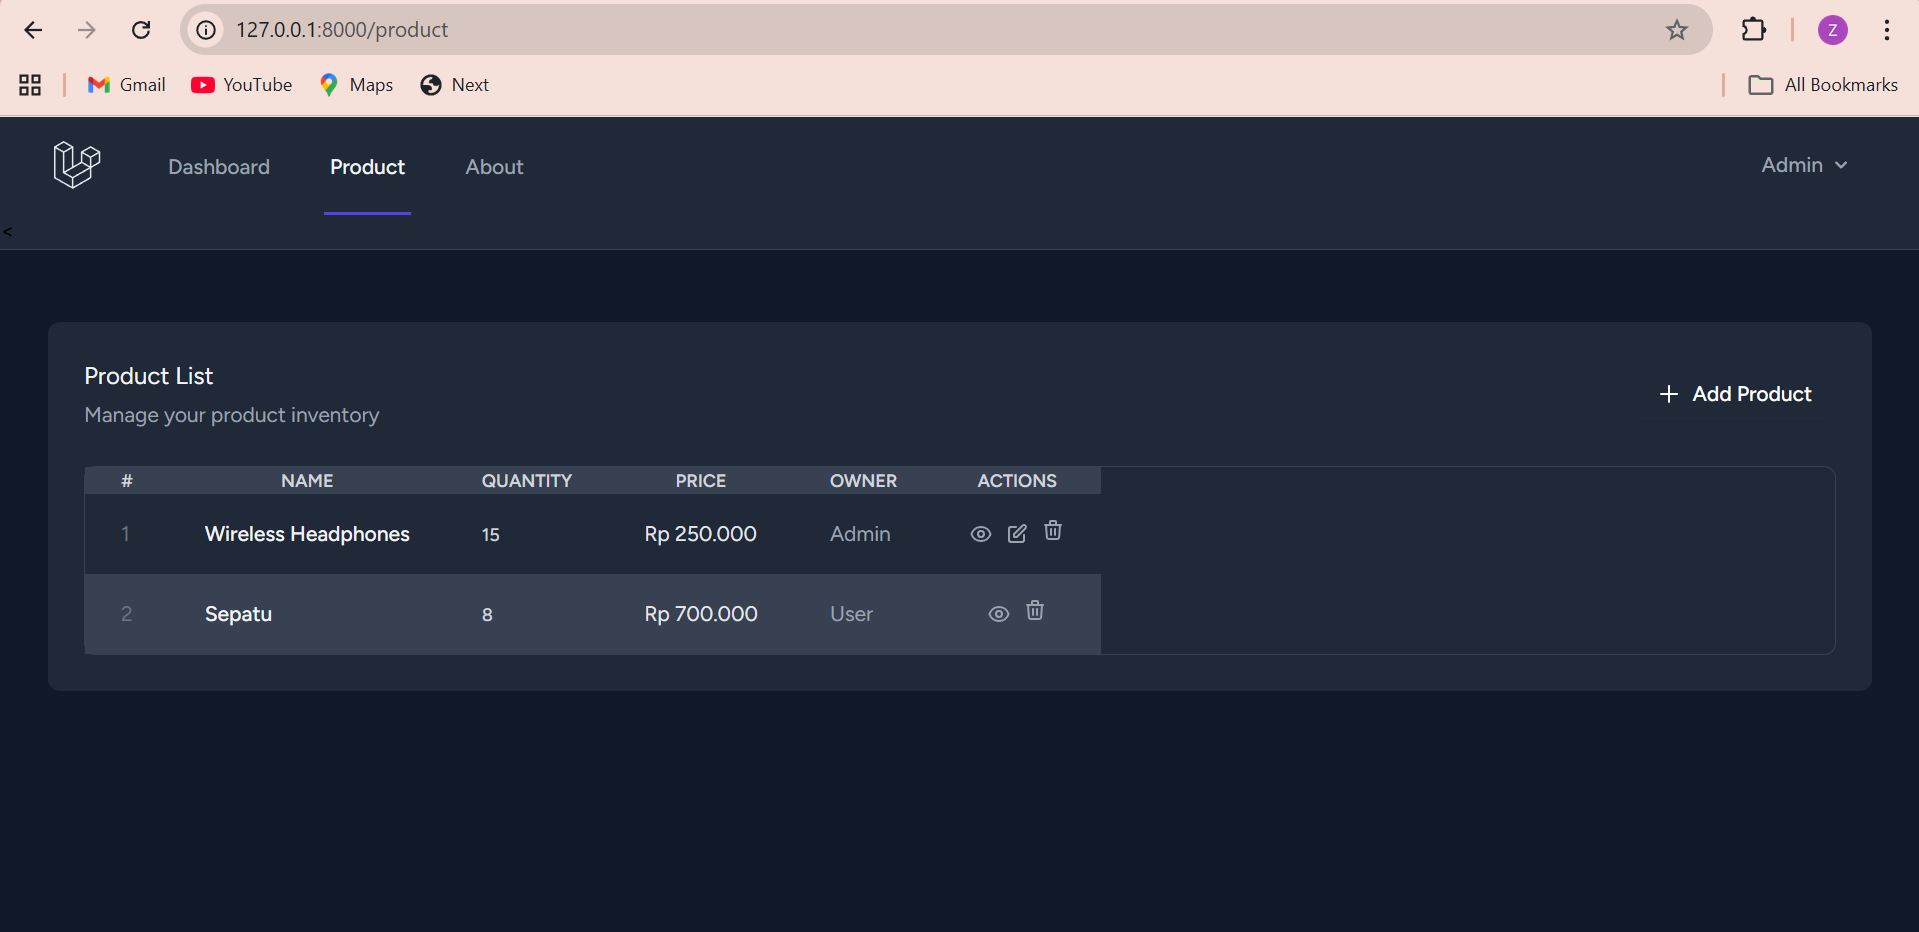
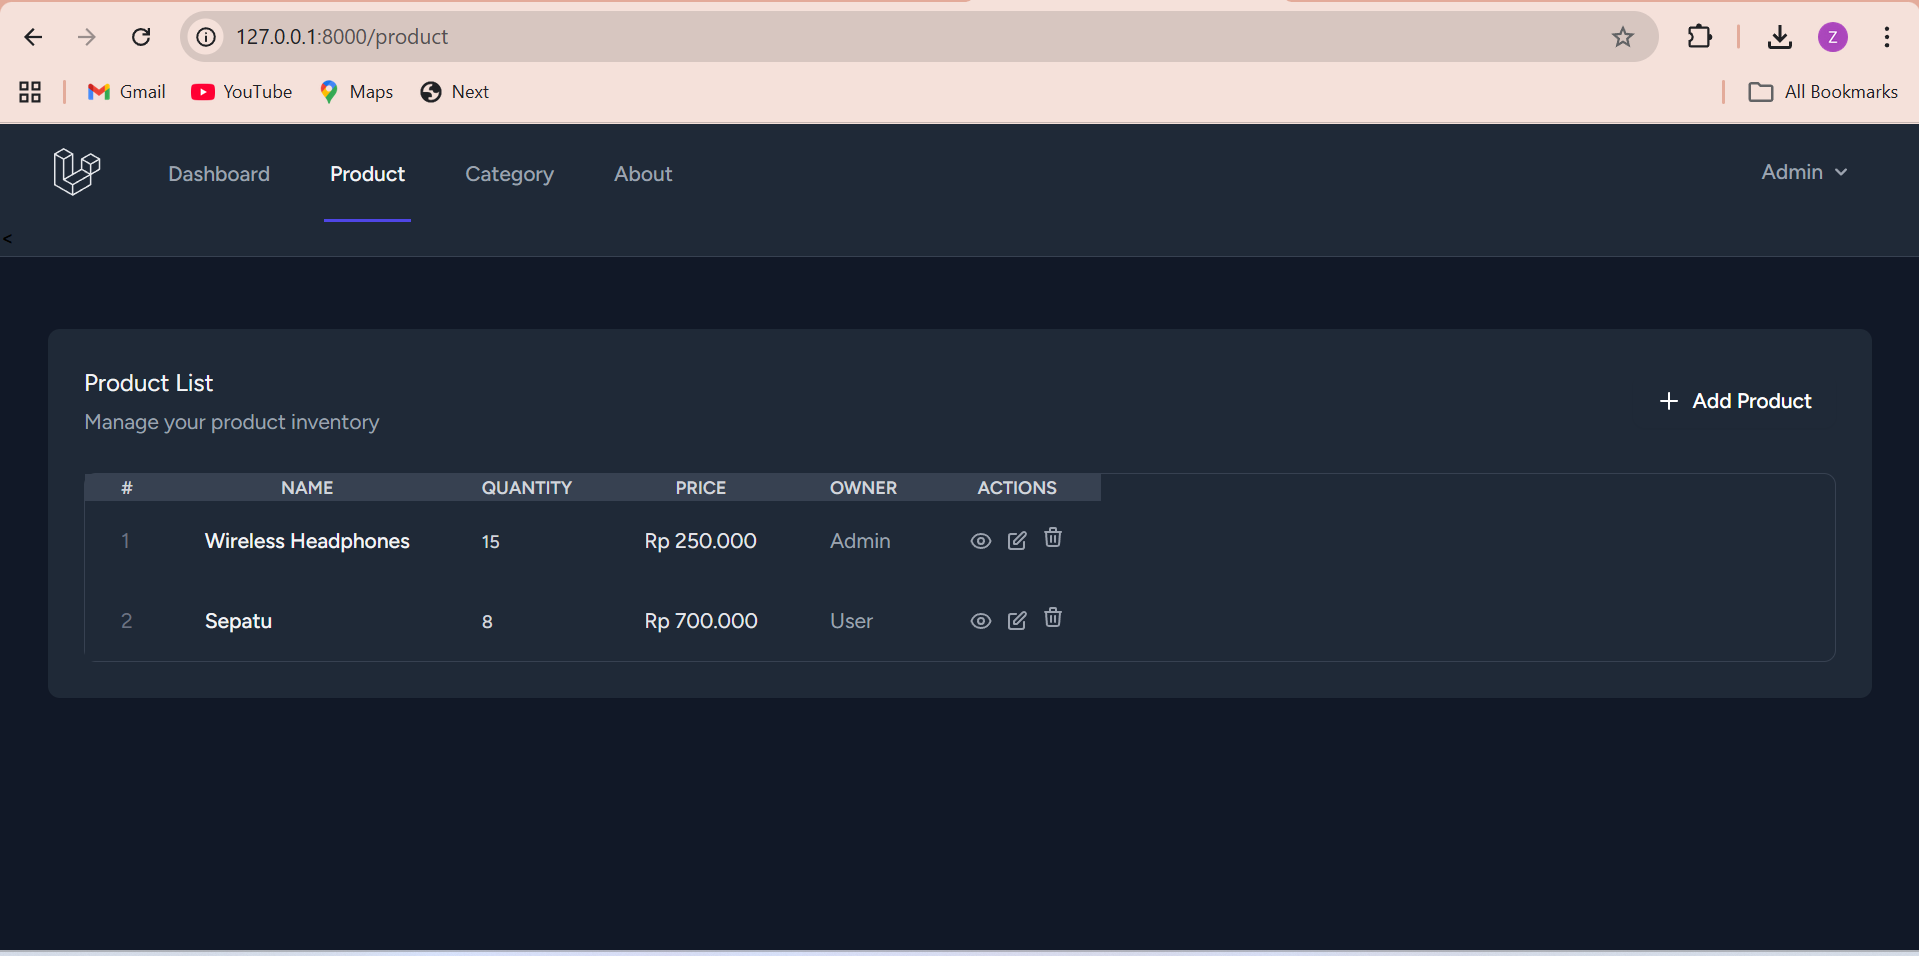
update: implement authorization gate and policy for pertemuan 5

diff --git a/resources/views/product/index.blade.php b/resources/views/product/index.blade.php
@@ -82,42 +82,41 @@
                                     </td>
                                     <td class="px-6 py-4">
                                         <div class="flex items-center justify-center gap-2" >
-    {{-- Tombol View: Ubah link-nya ke product.show --}}
-    <a href="{{ route('product.show', $product->id) }}"
-       class="p-1.5 rounded-md text-gray-400 hover:text-indigo-600 hover:bg-indigo-50 dark:hover:bg-indigo-900/30 transition"
-       title="View">
-        <svg xmlns="http://www.w3.org/2000/svg" class="h-4 w-4" fill="none" viewBox="0 0 24 24" stroke="currentColor">
-            <path stroke-linecap="round" stroke-linejoin="round" stroke-width="2" d="M15 12a3 3 0 11-6 0 3 3 0 016 0z" />
-            <path stroke-linecap="round" stroke-linejoin="round" stroke-width="2" d="M2.458 12C3.732 7.943 7.523 5 12 5c4.478 0 8.268 2.943 9.542 7-1.274 4.057-5.064 7-9.542 7-4.477 0-8.268-2.943-9.542-7z" />
-        </svg>
-    </a>
+    
+                                            <a href="{{ route('product.show', $product->id) }}"
+                                            class="p-1.5 rounded-md text-gray-400 hover:text-indigo-600 hover:bg-indigo-50 dark:hover:bg-indigo-900/30 transition"
+                                            title="View">
+                                                <svg xmlns="http://www.w3.org/2000/svg" class="h-4 w-4" fill="none" viewBox="0 0 24 24" stroke="currentColor">
+                                                    <path stroke-linecap="round" stroke-linejoin="round" stroke-width="2" d="M15 12a3 3 0 11-6 0 3 3 0 016 0z" />
+                                                    <path stroke-linecap="round" stroke-linejoin="round" stroke-width="2" d="M2.458 12C3.732 7.943 7.523 5 12 5c4.478 0 8.268 2.943 9.542 7-1.274 4.057-5.064 7-9.542 7-4.477 0-8.268-2.943-9.542-7z" />
+                                                </svg>
+                                            </a>
 
-    {{-- Tombol Edit: Hanya muncul jika user adalah pemilik (Policy Update) --}}
-    @can('update', $product)
-    <a href="{{ route('product.edit', $product) }}"
-       class="p-1.5 rounded-md text-gray-400 hover:text-amber-600 hover:bg-amber-50 dark:hover:bg-amber-900/30 transition"
-       title="Edit">
-        <svg xmlns="http://www.w3.org/2000/svg" class="h-4 w-4" fill="none" viewBox="0 0 24 24" stroke="currentColor">
-            <path stroke-linecap="round" stroke-linejoin="round" stroke-width="2" d="M11 5H6a2 2 0 00-2 2v11a2 2 0 002 2h11a2 2 0 002-2v-5m-1.414-9.414a2 2 0 112.828 2.828L11.828 15H9v-2.828l8.586-8.586z" />
-        </svg>
-    </a>
-    @endcan
-                                            {{-- Tombol Delete: Muncul jika pemilik atau admin (Policy Delete) --}}
-    @can('delete', $product)
-    <form action="{{ route('product.delete', $product->id) }}" method="POST" 
-          onsubmit="return confirm('Delete this product?')">
-        @csrf
-        @method('DELETE')
-        <button type="submit"
-            class="p-1.5 rounded-md text-gray-400 hover:text-red-600 hover:bg-red-50 dark:hover:bg-red-900/30 transition"
-            title="Delete">
-            <svg xmlns="http://www.w3.org/2000/svg" class="h-4 w-4" fill="none" viewBox="0 0 24 24" stroke="currentColor">
-                <path stroke-linecap="round" stroke-linejoin="round" stroke-width="2" d="M19 7l-.867 12.142A2 2 0 0116.138 21H7.862a2 2 0 01-1.995-1.858L5 7m5 4v6m4-6v6m1-10V4a1 1 0 00-1-1h-4a1 1 0 00-1 1v3M4 7h16" />
-            </svg>
-        </button>
-    </form>
-    @endcan
-</div>
+                                            @can('update', $product)
+                                            <a href="{{ route('product.edit', $product) }}"
+                                            class="p-1.5 rounded-md text-gray-400 hover:text-amber-600 hover:bg-amber-50 dark:hover:bg-amber-900/30 transition"
+                                            title="Edit">
+                                                <svg xmlns="http://www.w3.org/2000/svg" class="h-4 w-4" fill="none" viewBox="0 0 24 24" stroke="currentColor">
+                                                    <path stroke-linecap="round" stroke-linejoin="round" stroke-width="2" d="M11 5H6a2 2 0 00-2 2v11a2 2 0 002 2h11a2 2 0 002-2v-5m-1.414-9.414a2 2 0 112.828 2.828L11.828 15H9v-2.828l8.586-8.586z" />
+                                                </svg>
+                                            </a>
+                                            @endcan
+                                                                            
+                                            @can('delete', $product)
+                                            <form action="{{ route('product.delete', $product->id) }}" method="POST" 
+                                                onsubmit="return confirm('Delete this product?')">
+                                                @csrf
+                                                @method('DELETE')
+                                                <button type="submit"
+                                                    class="p-1.5 rounded-md text-gray-400 hover:text-red-600 hover:bg-red-50 dark:hover:bg-red-900/30 transition"
+                                                    title="Delete">
+                                                    <svg xmlns="http://www.w3.org/2000/svg" class="h-4 w-4" fill="none" viewBox="0 0 24 24" stroke="currentColor">
+                                                        <path stroke-linecap="round" stroke-linejoin="round" stroke-width="2" d="M19 7l-.867 12.142A2 2 0 0116.138 21H7.862a2 2 0 01-1.995-1.858L5 7m5 4v6m4-6v6m1-10V4a1 1 0 00-1-1h-4a1 1 0 00-1 1v3M4 7h16" />
+                                                    </svg>
+                                                </button>
+                                            </form>
+                                            @endcan
+                                        </div>
                                     </div>
                                 </td>
                             </tr>

diff --git a/resources/views/category/index.blade.php b/resources/views/category/index.blade.php
@@ -1,0 +1,36 @@
+<x-app-layout>
+    <div class="py-12">
+        <div class="max-w-7xl mx-auto sm:px-6 lg:px-8">
+            <div class="bg-white dark:bg-gray-800 overflow-hidden shadow-sm sm:rounded-lg">
+                <div class="p-6 text-gray-900 dark:text-gray-100">
+                    <h2 class="text-2xl font-bold mb-4">Category Management</h2>
+                    
+                    <div class="overflow-x-auto rounded-lg border border-gray-200 dark:border-gray-700">
+                        <table class="min-w-full divide-y divide-gray-200 dark:divide-gray-700">
+                            <thead class="bg-gray-50 dark:bg-gray-900">
+                                <tr>
+                                    <th class="px-6 py-3 text-left text-xs font-medium text-gray-500 uppercase">#</th>
+                                    <th class="px-6 py-3 text-left text-xs font-medium text-gray-500 uppercase">Category Name</th>
+                                    <th class="px-6 py-3 text-left text-xs font-medium text-gray-500 uppercase">Product ID</th>
+                                </tr>
+                            </thead>
+                            <tbody class="divide-y divide-gray-200 dark:divide-gray-700">
+                                @forelse($categories as $category)
+                                <tr>
+                                    <td class="px-6 py-4">{{ $loop->iteration }}</td>
+                                    <td class="px-6 py-4">{{ $category->name }}</td>
+                                    <td class="px-6 py-4">{{ $category->product_id }}</td>
+                                </tr>
+                                @empty
+                                <tr>
+                                    <td colspan="3" class="px-6 py-10 text-center text-gray-500">No categories found.</td>
+                                </tr>
+                                @endforelse
+                            </tbody>
+                        </table>
+                    </div>
+                </div>
+            </div>
+        </div>
+    </div>
+</x-app-layout>

diff --git a/routes/web.php b/routes/web.php
@@ -3,6 +3,7 @@
 use App\Http\Controllers\ProfileController;
 use App\Http\Controllers\AboutController;
 use App\Http\Controllers\ProductController;
+use App\Http\Controllers\CategoryController;
 use Illuminate\Support\Facades\Route;
 
 Route::get('/', function () {
@@ -15,25 +16,25 @@ Route::get('/dashboard', function () {
 
 Route::middleware('auth')->group(function () {
     
-    // Route Profile & About
+  
     Route::get('/profile', [ProfileController::class, 'edit'])->name('profile.edit');
     Route::patch('/profile', [ProfileController::class, 'update'])->name('profile.update');
     Route::delete('/profile', [ProfileController::class, 'destroy'])->name('profile.destroy');
     Route::get('/about', [AboutController::class, 'index'])->name('about');
 
-    // Route Product (Index & Show bisa diakses semua yang login)
+  
     Route::get('/product', [ProductController::class, 'index'])->name('product.index');
     
-    // PENTING: /product/create HARUS DI ATAS /product/{id}
+    
     Route::middleware('can:manage-product')->group(function () {
         Route::get('/product/create', [ProductController::class, 'create'])->name('product.create');
         Route::post('/product', [ProductController::class, 'store'])->name('product.store');
+        Route::get('/category', [CategoryController::class, 'index'])->name('category.index');
     });
-
-    // Route Detail (Pindahkan ke bawah create)
+    
     Route::get('/product/{id}', [ProductController::class, 'show'])->name('product.show');
 
-    // Route Edit & Delete (Sudah aman karena polanya berbeda)
+    
     Route::get('/product/edit/{product}', [ProductController::class, 'edit'])->name('product.edit');
     Route::put('/product/update/{id}', [ProductController::class, 'update'])->name('product.update');
     Route::delete('/product/delete/{id}', [ProductController::class, 'delete'])->name('product.delete');

diff --git a/resources/views/layouts/navigation.blade.php b/resources/views/layouts/navigation.blade.php
@@ -20,6 +20,11 @@
                         {{ __('Product') }}
                     </x-nav-link>
                     
+                     @can('manage-product')
+                    <x-nav-link :href="route('category.index')" :active="request()->routeIs('category.index')">
+                        {{ __('Category') }}
+                    </x-nav-link>
+                    @endcan
 
                     <x-nav-link :href="route('about')" :active="request()->routeIs('about')">
                     {{ __('About') }}
@@ -80,11 +85,17 @@
             {{ __('Dashboard') }}
         </x-responsive-nav-link>
 
-       
+    
        
         <x-responsive-nav-link :href="route('product.index')" :active="request()->routeIs('product.*')">
             {{ __('Product') }}
         </x-responsive-nav-link>
+
+        @can('manage-product')
+        <x-responsive-nav-link :href="route('category.index')" :active="request()->routeIs('category.index')">
+            {{ __('Category') }}
+        </x-responsive-nav-link>
+        @endcan
         
 
         <x-responsive-nav-link :href="route('about')" :active="request()->routeIs('about')">

diff --git a/app/Policies/ProductPolicy.php b/app/Policies/ProductPolicy.php
@@ -14,13 +14,12 @@ class ProductPolicy
     {
         //
     }
-    // User hanya boleh edit/update produk miliknya sendiri
     public function update(User $user, Product $product): bool
     {
-        return $user->id === $product->user_id;
+        return $user->id === $product->user_id || $user->role === 'admin';
     }
 
-    // User boleh hapus milik sendiri, tapi ADMIN boleh hapus milik siapa saja
+   
     public function delete(User $user, Product $product): bool
     {
         return $user->id === $product->user_id || $user->role === 'admin';

diff --git a/app/Http/Controllers/CategoryController.php b/app/Http/Controllers/CategoryController.php
@@ -1,0 +1,17 @@
+<?php
+
+namespace App\Http\Controllers;
+
+use App\Models\Category;
+use Illuminate\Http\Request;
+
+class CategoryController extends Controller
+{
+    public function index()
+    {
+        
+        $categories = Category::all();
+
+        return view('category.index', compact('categories'));
+    }
+}
